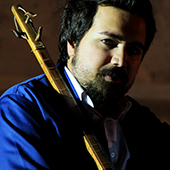
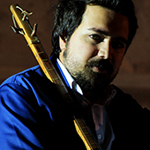
change images size

diff --git a/mehrad/style.css b/mehrad/style.css
@@ -453,3 +453,17 @@ article.about .pics .third {
 	float       : none;
 	margin-left : 660px;
 }
+
+/************************ PLAYERS PAGE ***************************/
+
+div.middle div.players {
+
+}
+
+div.players ul li {
+	float: left;
+	width: 150px;
+	height: 150px;
+	margin-right: 10px;
+	border-bottom: 1px solid #999;
+}
